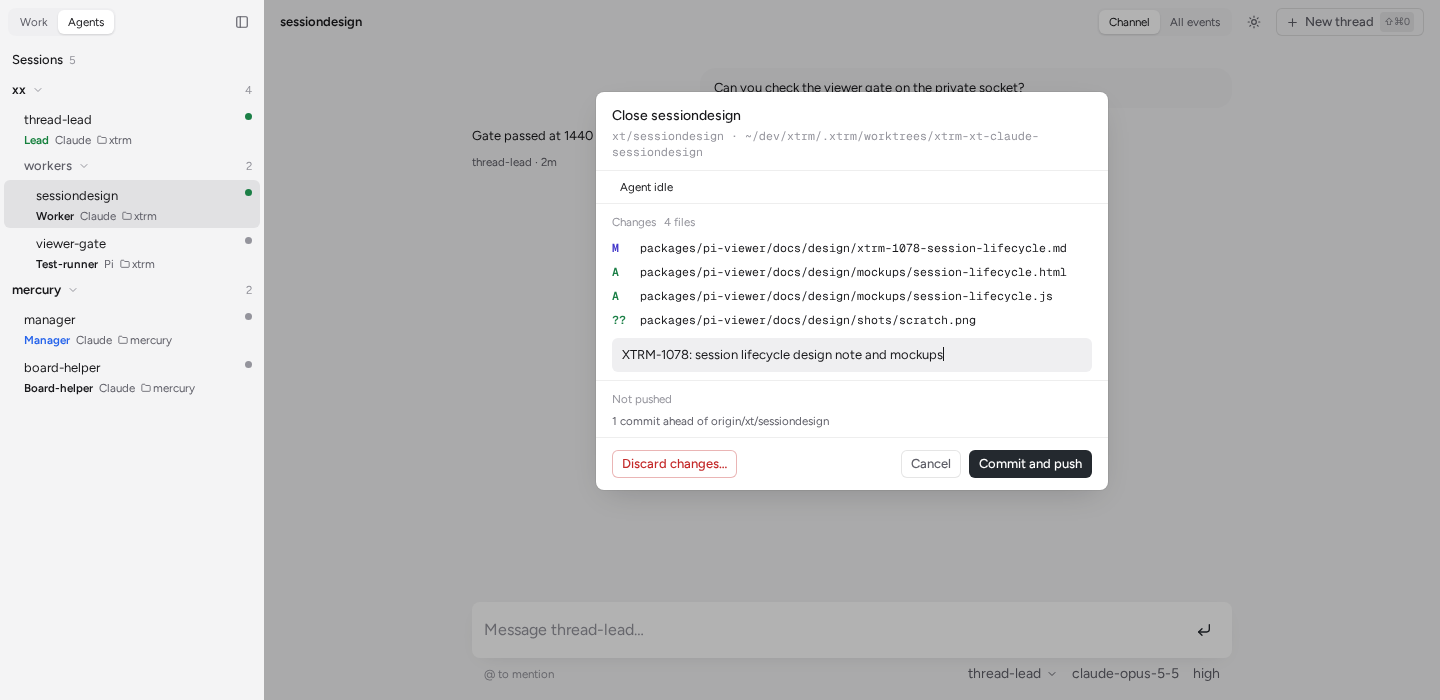
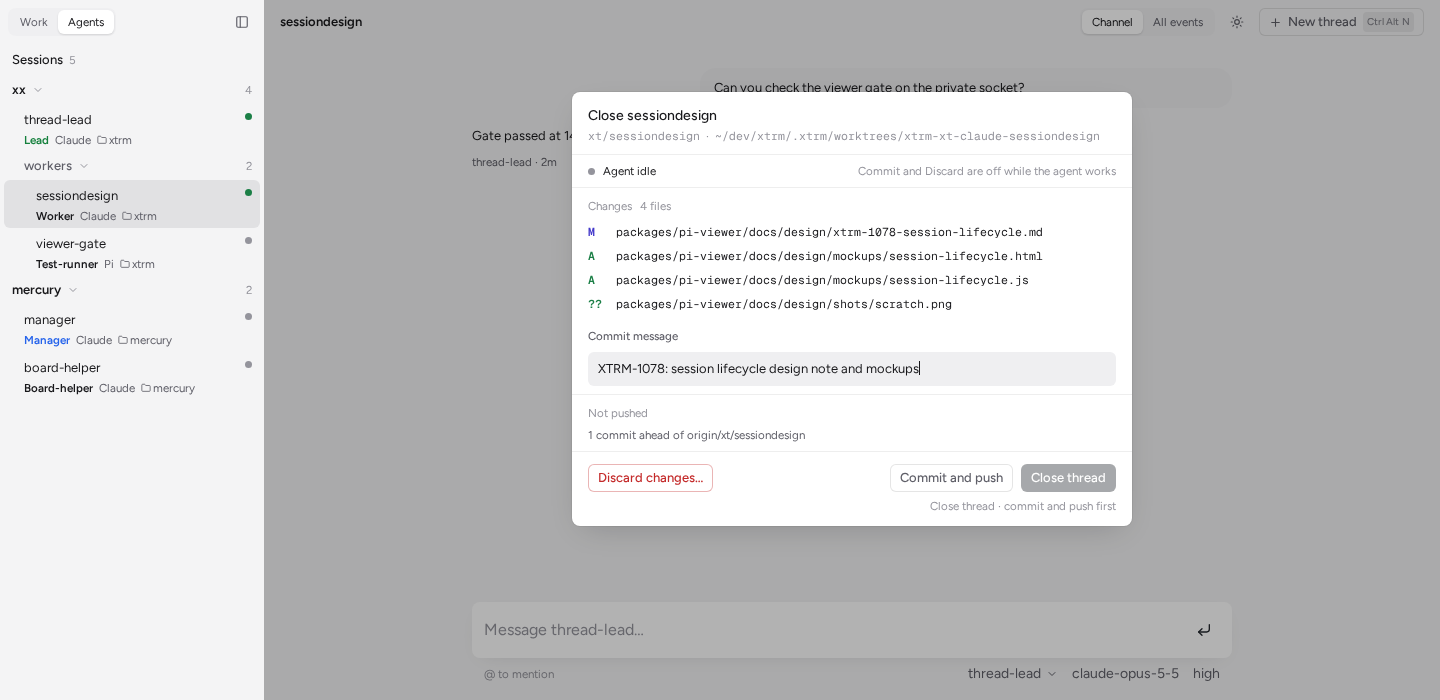
docs(pi-viewer): XTRM-1078 design round 2: lead review of #527
- Note: rulings in §9; private-socket test in §3.4 (XTRM_SESSION_SOCKET works,
  a fake TMUX corrupts identity; --json ignores --pane and refuses --window;
  failed placements leave orphan panes); C2 restated as client-less placement,
  C3 as --confirmed-by, C4 orphan and identity-leak bug; CORE-2825 cited;
  Ctrl+Alt+N with the browser check.
- Mockups: draft as one centred block, Command disclosure on its own line,
  "Add pane to" wording, static dashed draft dot (spinner only while
  starting), close dialog with a disabled Close thread and its reason,
  a labelled commit field, a left-truncated path, the Agent idle dot.

Changed region(s): [[0.375, 0.12, 0.8125, 0.75], [0.75, 0.03, 0.8438, 0.06], [0.9062, 0.03, 0.9688, 0.06]]

diff --git a/packages/pi-viewer/docs/design/mockups/session-lifecycle.js b/packages/pi-viewer/docs/design/mockups/session-lifecycle.js
@@ -41,8 +41,8 @@ function pane(p, ind, cls = "") {
 }
 const group = (name, n, ind, session, cls = "") =>
   `<div class="row g ${cls}" style="padding-left:${8 + ind * 12}px"><span class="tsm ${session ? "b ink" : "m muted"}">${name}</span><span class="chev">${i("down", 12)}</span><span class="cnt">${n}</span></div>`
-const draftRow = (ind, label) =>
-  `<div class="row p draft" style="padding-left:${8 + ind * 12}px"><div style="min-width:0;flex:1"><div class="tsm muted">${label}</div><div class="l2"><span>Draft</span></div></div><span class="dot draft"></span></div>`
+const draftRow = (ind, label, starting) =>
+  `<div class="row p draft" style="padding-left:${8 + ind * 12}px"><div style="min-width:0;flex:1"><div class="tsm muted">${label}</div><div class="l2"><span>${starting ? "Starting…" : "Draft"}</span></div></div>${starting ? '<span class="spin sm"></span>' : '<svg class="ddot" width="9" height="9" viewBox="0 0 9 9"><circle cx="4.5" cy="4.5" r="3.5" fill="none" stroke="currentColor" stroke-width="1.4" stroke-dasharray="2.2 2.2"/></svg>'}</div>`
 
 function sidebar(o = {}) {
   const c = o.ctx || ""
@@ -52,17 +52,17 @@ function sidebar(o = {}) {
     <span class="ib plus ${o.plus ? "on" : ""}" style="${o.plus ? "" : "opacity:.0"}">${i("plus")}</span></div>
   <div class="tree">
     ${group("xx", 4, 0, true, c === "sess" ? "ctx" : "")}
-    ${o.draft === "sess" ? draftRow(1, "New window") : ""}
+    ${o.draft === "sess" ? draftRow(1, "New window", o.starting) : ""}
     ${pane(PANES.lead, 1, o.sel === "lead" ? "sel" : "")}
     ${o.moved ? "" : group("workers", 2, 1, false, c === "win" ? "ctx" : "")}
     ${pane(PANES.w1, o.moved ? 1 : 2, (o.sel === "w1" ? "sel " : "") + (c === "w1" ? "ctx" : "") + (o.flash === "w1" ? " flash" : ""))}
     ${o.moved ? "" : pane(PANES.w2, 2, c === "w2" ? "ctx" : "")}
-    ${o.draft === "win" ? draftRow(2, "New thread") : ""}
+    ${o.draft === "win" ? draftRow(2, "New thread", o.starting) : ""}
     ${o.moved ? pane(PANES.w2, 1, "flash") : ""}
     ${group("mercury", 2, 0, true)}
     ${pane(PANES.mgr, 1)}
     ${pane(PANES.w3, 1)}
-    ${o.draft === "new" ? group("new session", 0, 0, true) + draftRow(1, "New thread") : ""}
+    ${o.draft === "new" ? group("new session", 0, 0, true) + draftRow(1, "New thread", o.starting) : ""}
   </div></aside>`
 }
 
@@ -70,7 +70,7 @@ function sidebar(o = {}) {
 function topbar(title, o = {}) {
   return `<div class="top"><span class="tsm b">${title}</span>${o.detail ? `<span class="t2xs faint">${o.detail}</span>` : ""}
   <div class="r"><div class="seg"><span class="on">Channel</span><span>All events</span></div><span class="ib">${i("sun")}</span>
-  <span class="newbtn ${o.newOn ? "" : "ghost"}">${i("plus", 13)}New thread<span class="kbd">⇧⌘O</span></span></div></div>`
+  <span class="newbtn ${o.newOn ? "" : "ghost"}">${i("plus", 13)}New thread<span class="kbd">Ctrl Alt N</span></span></div></div>`
 }
 function threadBody() {
   return `<div class="thread"><div class="lane">
@@ -84,7 +84,7 @@ function messageComposer() {
 }
 
 const PLACE = {
-  pane: ["Split", "xx › workers"],
+  pane: ["Add pane to", "xx › workers"],
   window: ["New window in", "xx"],
   session: ["New session", ""],
 }
@@ -104,7 +104,7 @@ function draftComposer(o) {
   const locked = o.issuePrompt
   return {
     hero: `<div class="hero"><h2>New thread</h2><p>${sentence}</p></div>`,
-    composer: `<div class="composer"><div class="lane" style="position:relative">
+    composer: `<div class="composer draftc"><div class="lane" style="position:relative">
     ${o.pop || ""}
     <div class="where">
       <span class="pick set" data-k="place">${i(o.place === "pane" ? "split" : o.place === "window" ? "window" : "session", 13)}${pk}${pv ? ` <span class="m">${pv}</span>` : ""} ${i("down", 12)}</span>
@@ -114,12 +114,15 @@ function draftComposer(o) {
     <div class="box"><div class="ta ${o.text ? "" : locked ? "locked" : "ph"}">${o.text || (locked ? "The issue is the prompt: XTRM-1078 renders as the first turn." : "Describe the task, or leave it empty to start idle")}</div>
       <span class="send">${o.busy ? '<span class="spin"></span>' : i("enter", 16)}</span></div>
     <div class="who">
-      <span class="prev mono" title="click copies">${i("terminal", 11)}${argv}</span>
       <span class="pick ${set("rt")}">${o.rt || "Claude"} ${i("down", 12)}</span>
       <span class="pick ${set("role")}">${o.role || "worker"} ${i("down", 12)}</span>
       <span class="pick ${set("model")}">${o.model || '<span class="faint">claude-opus-5-5</span>'} ${i("down", 12)}</span>
       <span class="pick ${set("issue")}">${o.issue === false ? '<span class="faint">No issue</span>' : "XTRM-1078"} ${i("down", 12)}</span>
-    </div></div></div>`,
+    </div>
+    ${o.cmdOpen
+      ? `<div class="cmd open"><span class="cmdh">${i("down", 11)}Command<span class="copy">${i("copy", 11)}Copy</span></span><code class="mono">${argv}</code></div>`
+      : `<div class="cmd"><span class="cmdh">${i("right", 11)}Command</span></div>`}
+    </div></div>`,
   }
 }
 
@@ -129,10 +132,10 @@ function desktop({ side, title, detail, body, composer, overlay = "", newOn }) {
 function draftFrame(o) {
   const d = draftComposer(o)
   return desktop({
-    side: sidebar({ draft: o.place === "pane" ? "win" : o.place === "window" ? "sess" : "new", ctx: o.ctx }),
+    side: sidebar({ draft: o.place === "pane" ? "win" : o.place === "window" ? "sess" : "new", ctx: o.ctx, starting: o.starting }),
     title: "New thread", detail: o.place === "pane" ? "draft · xx › workers" : o.place === "window" ? "draft · xx" : "draft",
-    body: `<div class="thread"><div class="lane">${d.hero}${o.card || ""}</div></div>`,
-    composer: d.composer, overlay: o.overlay, newOn: o.newOn,
+    body: `<div class="draftwrap"><div class="lane">${d.hero}</div>${d.composer}<div class="lane">${o.card || ""}</div></div>`,
+    composer: "", overlay: o.overlay, newOn: o.newOn,
   })
 }
 
@@ -142,7 +145,7 @@ const mi = (label, o = {}) =>
 const sep = '<div class="sep"></div>'
 
 const MENU_PANE = (top, left, hiMove) => `<div class="pop" style="top:${top}px;left:${left}px;min-width:224px">
-  ${mi("New thread beside", { icon: "split", det: "split workers" })}
+  ${mi("New thread beside", { icon: "split", det: "in workers" })}
   ${mi("Move to", { icon: "move", sub: true, hi: hiMove })}
   ${sep}${mi("Copy", { icon: "copy", sub: true })}
   ${sep}${mi("Close thread…", { icon: "trash", dng: true })}</div>`
@@ -183,12 +186,12 @@ F["F2"] = {
 }
 F["F3"] = {
   t: "Draft thread from a window row (entry a): placement picker open", why: "One component. Only the prefilled placement differs. Windows without agents are listed too. The command preview shows the exact argv.",
-  html: () => draftFrame({ place: "pane", ctx: "", set: ["place"],
-    pop: `<div class="pop" style="bottom:122px;left:0;width:300px;max-height:330px;overflow:hidden">
+  html: () => draftFrame({ place: "pane", ctx: "", set: ["place"], cmdOpen: true,
+    pop: `<div class="pop" style="top:28px;left:0;width:300px;max-height:330px;overflow:hidden">
       <div class="search">${i("search", 13)}<span>Filter sessions and windows</span></div>
       ${mi("New session", { icon: "session" })}
-      <div class="grp">xx</div>${mi("New window in xx", { icon: "plus" })}${mi("Split thread-lead window", { icon: "split" })}${mi("Split workers", { icon: "split", det: "2 panes", ck: true, hi: true })}${mi("Split scratch", { icon: "split", det: "no agent" })}
-      <div class="grp">mercury</div>${mi("New window in mercury", { icon: "plus" })}${mi("Split manager", { icon: "split" })}</div>` }),
+      <div class="grp">xx</div>${mi("New window in xx", { icon: "plus" })}${mi("Add pane to thread-lead window", { icon: "split" })}${mi("Add pane to workers", { icon: "split", det: "2 panes", ck: true, hi: true })}${mi("Add pane to scratch", { icon: "split", det: "no agent" })}
+      <div class="grp">mercury</div>${mi("New window in mercury", { icon: "plus" })}${mi("Add pane to manager", { icon: "split" })}</div>` }),
 }
 F["F4"] = {
   t: "Role picker: grouped, searchable, description on line 2", why: "From specialists list --json (36 roles). The model picker's placeholder follows the role's default model.",
@@ -206,31 +209,32 @@ F["F4"] = {
 }
 F["F5"] = {
   t: "Launch running (entry d, top-bar button)", why: "The fields lock and the send button spins. A launch card with elapsed time; the sidebar shows the draft row at its target.",
-  html: () => draftFrame({ place: "session", newOn: true, busy: true, set: ["place", "wt"], issue: false, text: "Audit the jira-cleanup skill against the current board",
+  html: () => draftFrame({ place: "session", newOn: true, busy: true, starting: true, set: ["place", "wt"], issue: false, text: "Audit the jira-cleanup skill against the current board",
     argv: "xt claude --role worker --new-session --prompt '…' --no-attach --json",
     card: `<div class="card"><div class="t">${'<span class="spin"></span>'}<span class="shimmer">Starting claude in a new worktree…</span><span class="txs faint" style="margin-left:auto">4 s</span></div>
       <div class="st"><span>Fetching origin/main, creating xt/&lt;name&gt;, starting the pane</span></div></div>` }),
 }
 F["F6"] = {
-  t: "Launch failed: inputs kept, reason shown, Retry", why: "The card shows reason_code and the summary from xtrm.command-outcome.v1. Nothing typed is lost.",
-  html: () => draftFrame({ place: "pane", rt: "Codex", set: ["place", "rt"], text: "Port the board-helper lanes to the new schema",
+  t: "Launch failed card: inputs kept, reason shown, Retry", why: "The card shows reason_code and the summary from xtrm.command-outcome.v1. Nothing typed is lost.",
+  html: () => draftFrame({ place: "pane", rt: "Codex", cmdOpen: true, set: ["place", "rt"], text: "Port the board-helper lanes to the new schema",
     argv: "xt codex --pane xx:workers --no-attach --json",
     card: `<div class="card err"><div class="t"><span class="danger">${i("alert", 14)}</span><span>Could not start codex</span><span class="mono txs faint" style="margin-left:auto">placement_unsupported</span></div>
       <div class="st"><span class="ink">xt codex has no --pane option; it can open a new session or a new window.</span></div>
       <div class="act"><span class="btn">Retry as new window</span><span class="btn">${i("copy", 12)}Copy command</span></div></div>` }),
 }
 const closeDialog = (o) => `<div class="backdrop"></div><div class="dialog">
-  <div class="dh"><div class="tt">Close sessiondesign</div><div class="mono txs faint" style="margin-top:2px">xt/sessiondesign · ~/dev/xtrm/.xtrm/worktrees/xtrm-xt-claude-sessiondesign</div></div>
-  <div class="sec" style="display:flex;gap:8px;align-items:center"><span class="dot idle" style="margin:0"></span><span class="txs">Agent idle</span></div>
+  <div class="dh"><div class="tt">Close sessiondesign</div><div class="pathline txs faint" title="~/dev/xtrm/.xtrm/worktrees/xtrm-xt-claude-sessiondesign"><span class="mono">xt/sessiondesign</span><span>·</span><span class="ltrunc mono"><bdi>~/dev/xtrm/.xtrm/worktrees/xtrm-xt-claude-sessiondesign</bdi></span></div></div>
+  <div class="sec" style="display:flex;gap:8px;align-items:center"><span class="sdot idle"></span><span class="txs">Agent idle</span><span class="txs faint" style="margin-left:auto">Commit and Discard are off while the agent works</span></div>
   <div class="sec"><div class="st"><span>Changes</span><span>4 files</span></div>
     <div class="file"><span class="g M">M</span><span class="mono">packages/pi-viewer/docs/design/xtrm-1078-session-lifecycle.md</span></div>
     <div class="file"><span class="g A">A</span><span class="mono">packages/pi-viewer/docs/design/mockups/session-lifecycle.html</span></div>
     <div class="file"><span class="g A">A</span><span class="mono">packages/pi-viewer/docs/design/mockups/session-lifecycle.js</span></div>
     <div class="file"><span class="g U">??</span><span class="mono">packages/pi-viewer/docs/design/shots/scratch.png</span></div>
-    ${o.commit ? `<div class="field">XTRM-1078: session lifecycle design note and mockups<span class="caret"></span></div>` : ""}</div>
+    ${o.commit ? `<label class="flabel">Commit message</label><div class="field">XTRM-1078: session lifecycle design note and mockups<span class="caret"></span></div>` : ""}</div>
   <div class="sec"><div class="st"><span>Not pushed</span></div><div class="txs muted">1 commit ahead of origin/xt/sessiondesign</div></div>
   <div class="ft"><span class="btn dghost">Discard changes…</span><span class="sp"></span>
-    ${o.commit ? `<span class="btn">Cancel</span><span class="btn pri">Commit and push</span>` : `<span class="btn">Commit and push</span><span class="btn pri dis" title="clean and pushed first">Close thread</span>`}</div></div>`
+    <span class="btn">Commit and push</span><span class="btn pri dis" title="Commit and push first">Close thread</span></div>
+  <div class="why2 txs faint">Close thread · commit and push first</div></div>`
 F["F7"] = {
   t: "Close dialog: git state, Commit and push", why: "Read with git status (never release --dry-run, which nudges the agent). Close is enabled only when the tree is clean and pushed.",
   html: () => desktop({ side: sidebar({ ctx: "w1" }), title: "sessiondesign", body: threadBody(), composer: messageComposer(), overlay: closeDialog({ commit: true }) }),
@@ -263,7 +267,7 @@ M["M1"] = {
 }
 M["M2"] = {
   t: "Phone: draft thread", why: "The pickers wrap; the command preview is hidden on phone.",
-  html: () => { const d = draftComposer({ place: "pane", set: ["place"] }); return mobile({ title: "New thread", body: `<div class="thread">${d.hero}</div>`, composer: d.composer }) },
+  html: () => { const d = draftComposer({ place: "pane", set: ["place"] }); return mobile({ title: "New thread", body: `<div class="draftwrap"><div class="lane" style="padding:0 12px">${d.hero}</div>${d.composer}</div>`, composer: "" }) },
 }
 M["M3"] = {
   t: "Phone: close dialog", why: "Full-width dialog, same content as F7.",

diff --git a/packages/pi-viewer/docs/design/mockups/session-lifecycle.css b/packages/pi-viewer/docs/design/mockups/session-lifecycle.css
@@ -188,3 +188,29 @@ body { margin: 0; background: var(--x-gallery); color: var(--x-ink); font: 400 0
 .frame.mobile .hero { padding-top: 64px; }
 .frame.mobile .dialog { left: 8px; right: 8px; transform: none; width: auto; top: 56px; }
 svg { display: block; }
+
+/* round 2 (lead review of #527) */
+.draftwrap { flex: 1; display: flex; flex-direction: column; justify-content: center; padding: 0 0 24px; min-height: 0; }
+.draftwrap .hero { padding: 0 12px 18px; }
+.composer.draftc { padding: 0 48px; }
+.frame.mobile .composer.draftc { padding: 0 12px; }
+.frame.mobile .draftwrap .hero { padding: 0 0 14px; }
+.draftwrap > .lane { padding: 0 48px; max-width: calc(760px + 96px); }
+.frame.mobile .draftwrap > .lane { padding: 0 12px; }
+.cmd { margin: 8px 12px 0; font-size: 0.72rem; color: var(--x-ink-faint); }
+.cmd .cmdh { display: inline-flex; align-items: center; gap: 4px; }
+.cmd.open { background: var(--x-surface); box-shadow: 0 0 0 1px var(--x-border-muted); border-radius: 6px; padding: 6px 10px 8px; }
+.cmd.open .cmdh { display: flex; width: 100%; }
+.cmd .copy { margin-left: auto; display: inline-flex; gap: 4px; align-items: center; color: var(--x-ink-muted); }
+.cmd code { display: block; margin-top: 4px; color: var(--x-ink-muted); white-space: pre-wrap; word-break: break-word; }
+.ddot { margin-left: auto; margin-top: 3px; color: var(--x-ink-faint); flex: none; }
+.spin.sm { width: 10px; height: 10px; border-width: 1.5px; margin-left: auto; margin-top: 3px; flex: none; }
+.sdot { width: 7px; height: 7px; border-radius: 99px; flex: none; }
+.sdot.idle { background: var(--x-ink-faint); } .sdot.run { background: var(--x-success); }
+.pathline { display: flex; gap: 6px; margin-top: 2px; min-width: 0; white-space: nowrap; }
+.ltrunc { min-width: 0; overflow: hidden; text-overflow: ellipsis; direction: rtl; text-align: left; }
+.flabel { display: block; margin-top: 10px; font-size: 0.72rem; color: var(--x-ink-muted); font-weight: 500; }
+.why2 { margin-left: 4px; }
+.kbd { font-family: "Figtree", system-ui, sans-serif; letter-spacing: 0.02em; }
+.dialog { width: 560px; }
+.why2 { margin: -6px 0 0; padding: 0 16px 12px; text-align: right; }

diff --git a/packages/pi-viewer/docs/design/xtrm-1078-session-lifecycle.md b/packages/pi-viewer/docs/design/xtrm-1078-session-lifecycle.md
@@ -1,6 +1,6 @@
 # Start, close and move agent sessions from the threads app (XTRM-1078)
 
-Status: phase-1 draft 1, for the thread lead and then the operator. No application code changes in this phase.
+Status: phase-1 draft 2 (thread-lead review round 1 of #527 applied: rulings in §9, design fixes a-g, the socket test in §3.4). For the operator after the lead. No application code changes in this phase.
 Contract: Substrate `XTRM-1078` rev 2; journal seq 2-5 (operator note, lead inventory, the native-tmux correction, the operator direction).
 Mockups: [`mockups/session-lifecycle.html`](mockups/session-lifecycle.html) (desktop 1440, `?w=390` for phone, `?theme=light|dark`). Screenshots: [`shots/XTRM-1078/`](shots/XTRM-1078/) (`xtrm-1078-<frame>-<theme>.png`, frames F1-F9 at 1440 and M1-M3 at 390).
 Reference studied: `pingdotgg/t3code` at `17a44b5e5fb9548571a0e3016ec51f5d74b884c8` (2026-11-28), shallow clone, source read only. `T3/` means `apps/web/src/`.
@@ -10,10 +10,10 @@ Every statement is marked when it matters: **verified** (read in source or obser
 ## 1. Summary
 
 1. Starting a thread is a **draft thread** in the main pane, not a form or a modal. It uses the composer the operator already knows: the prompt box, with the pickers placed around it the same way as the existing target, model and effort under-row. The four entry points open the same draft. They differ only in the placement prefilled into the placement picker.
-2. The composer shows **where** above the box (placement, repo, worktree) and **who** under it (runtime, role, model, issue). A one-line **command preview** shows the exact `xt` argv that Enter will run. That preview is how "every action is visible" is met before the action runs.
+2. The composer shows **where** above the box (placement, repo, worktree) and **who** under it (runtime, role, model, issue). A quiet **Command** disclosure under the who-row expands to the exact, full `xt` argv that Enter will run, with Copy. It never shows a truncated argv. That preview is how "every action is visible" is met before the action runs.
 3. **Close** is a dialog on the pane row. It shows the worktree's git state and has three actions: Commit and push, Discard (behind its own confirmation, which lists the files), and Close, which is enabled only when the tree is clean and pushed. Close ends the agent's pane and runs `xt worktree release --pane`.
 4. **Move** is a submenu on the pane and window rows. It uses native `tmux join-pane`, `break-pane` and `move-window`, all with `-S`. Moves are reversible, so they get an **Undo** toast and no confirmation, as t3code does for archive.
-5. Phase 2 needs four viewer host endpoints (`/api/launch`, `/api/worktree-status`, `/api/worktree-action`, `/api/move`) and one audit log. It needs **two small core-cli changes** that the contract allows only when an existing flag cannot express the need. §4 states each gap with evidence.
+5. Phase 2 needs four viewer host endpoints (`/api/launch`, `/api/worktree-status`, `/api/worktree-action`, `/api/move`) and one audit log. It needs **core-cli changes** that the contract allows only when an existing flag cannot express the need. The private-socket test in §3.4 found more gaps than draft 1 expected: the `--json` launch path ignores `--pane`, refuses `--window`, and a failed placement leaves orphan panes. §4 states each gap with evidence.
 
 ## 2. What t3code does, and what we take
 
@@ -27,7 +27,7 @@ Findings from the read of t3code. Each one names the file it came from.
 | New thread opens a **draft** at once. An empty draft per project is reused. It is promoted to a thread on first send, and a failed send restores the draft. | `T3/hooks/useHandleNewThread.ts:233-300`, `composerDraftStore.ts:4849`, `useComposerSend.ts:306-311` | One draft per placement key. Enter launches it. On failure the draft keeps every field and the prompt text. |
 | The draft hero heading carries a searchable project combobox: "What should we build in {project}?" | `T3/components/chat/DraftHeroHeadline.tsx:142-372` | The heading names the placement in plain words: "New thread in **xx › workers**". The repo is a picker, not part of the heading, because one tmux window holds several repos. |
 | Workspace: "Current checkout", "New worktree", "Previous worktree" (with its branch). It is locked after the first send. | `T3/components/BranchToolbarEnvModeSelector.tsx` | A worktree picker: **New worktree** (default, from `origin/<default>`), **New worktree from…** (`--base`), **Existing worktree** (`xt attach <slug> --fresh`). |
-| Shortcuts: `mod+n` / `mod+shift+o` new thread, `mod+k` palette, `mod+shift+m` model picker, and one per composer picker, each shown in its tooltip. | `packages/shared/src/keybindings.ts:116-128` | `mod+shift+o` for new thread (`mod+n` belongs to the browser). Pickers get `mod+shift+<letter>` shown in their tooltips. There is no command palette in phase 2 (§3.6). |
+| Shortcuts: `mod+n` / `mod+shift+o` new thread, `mod+k` palette, `mod+shift+m` model picker, and one per composer picker, each shown in its tooltip. | `packages/shared/src/keybindings.ts:116-128` | `Ctrl+Alt+N` / `⌃⌥N` for new thread (§5.1 states the browser check; `mod+n` and `mod+shift+o` belong to the browser). Pickers show their shortcut in their tooltips. There is no command palette in phase 2 (§3.6). |
 | Model picker: searchable combobox, check on the selected row, jump keys, `max-h` frozen while searching so it does not jump. | `T3/components/chat/ModelPickerContent.tsx:955-1060`, `ModelListRow.tsx` | Our pickers are searchable lists with a check, grouped, with height frozen while filtering. One column, no provider rail: runtime is its own picker. |
 | Chips are emphasized only when they differ from the default. | `T3/components/chat/ComposerControlsBar.tsx:135-180` | A picker reads muted at its default value and turns `--x-ink` when changed, so the operator sees at a glance what they set. |
 | Worktree setup shows an inline card in the timeline with stages ("Setting up worktree…", "Worktree ready", "Worktree setup failed") and ghost actions. | `T3/components/chat/WorktreeSetupCard.tsx:113-125,340-405` | A **launch card** in the draft timeline: Starting… with elapsed time, then the outcome. On failure it shows `reason_code` and summary, Retry and Copy command. |
@@ -53,23 +53,41 @@ The XTRM-557.9 / XTRM-601 launch path takes `command: "pi" | "xt pi"` only, with
 ### 3.3 `xt codex` cannot be placed (verified)
 
 `xt codex --help` offers `--window` but no `--pane`, `--session`, `--layout`, `--workers` or `--new-session`; `xt pi` and `xt claude` have all of them. Codex can therefore start only as a new session or as a window in the caller's session.
-**Proposal:** this is the case the contract allows for core cli: give `xt codex` the same placement flags as `xt pi` (core issue, owner 9hym). Until it lands, the runtime picker disables Codex for a pane placement, with the reason "Codex cannot split a window yet".
+**Proposal:** this is the case the contract allows for core cli: give `xt codex` the same placement flags as `xt pi` (core issue, owner 9hym). Until it lands, the runtime picker disables Codex for a pane placement, with the reason "Codex cannot add a pane to a window yet".
 
-### 3.4 `xt` cannot target a tmux socket (verified)
+### 3.4 Socket and placement: the private-socket test (verified, 2026-11-28)
 
-No `xt` runtime has `-S` or `-L`. `xt` chooses its server from `$TMUX` or the default socket, and inside `$TMUX` without a placement flag it runs **in the current pane** (`xt claude --help`, `--new-session`). The constraint "host tmux calls target the host's own server explicitly (-S)" can be met for the viewer's own tmux calls, but not for `xt` itself. Today the viewer's tmux calls carry no `-S` either (`server/api.ts:619-620,649`, `server/discover.ts:91`).
-**Proposal:** (1) The viewer resolves its socket once at start: `PI_VIEWER_TMUX_SOCKET`, else the default `$TMUX_TMPDIR/tmux-$UID/default`, never an inherited `$TMUX`. It passes `-S` on every call it makes. (2) `xt` gets a documented `XTMUX_SOCKET` env var, or a `--socket` flag (core issue), that its launcher honours. The viewer sets it and **always** passes an explicit placement flag, so `xt` never falls back to "run in the current pane". (3) Tests use a private socket only. **Lead decision needed:** env var or flag.
+Ruling to test: does `xt` honour a child `TMUX="<sock>,<pid>,0"` with an explicit placement flag? Method: `unset TMUX TMUX_PANE; export TMUX_TMPDIR=$(mktemp -d)`, a private server on `-S $TMUX_TMPDIR/<x>.sock` holding one `sleep` pane in session `probe`, a scratch git repo with a local bare `origin`, then `xt pi --no-attach ...`. After every run, the default server still had its 5 windows, and each private server was stopped with `tmux -S <sock> kill-server`.
+
+| Child env | Placement | Result |
+|---|---|---|
+| `TMUX=<sock>,<pid>,0` | `--new-session --json` | ok: a session on the private server. `@agent_parent_session` is set from the fake `TMUX` (`$0`, then `$1`) and is wrong for a UI launch |
+| `TMUX=<sock>,<pid>,0` | `--pane probe:base` / `--workers --session probe` | `✗ tmux placement failed: no current client`. The pane is **still created** and left running, without `@agent_worktree`/`@agent_branch`. The worktree and branch remain |
+| `XTRM_SESSION_SOCKET=<sock>`, `env -i` | `--new-session --json` | ok: on the private server, `@agent_parent_session ''`. `xt` already honours this variable |
+| `XTRM_SESSION_SOCKET=<sock>`, `env -i` | `--pane probe:base --json` | **`status: ok`, but the pane is in a new session `pi-2l0q`, not in `probe:base`**: the JSON path ignores `--pane` |
+| `XTRM_SESSION_SOCKET=<sock>`, `env -i` | `--workers --session probe --json` | `no current client`, orphan pane left |
+| any | `--window --session probe [--window-name w2]` with `--json` | `✗ --window cannot combine with --json` |
+| `XTRM_SESSION_SOCKET=<sock>`, `env -i` | `--window --session probe --window-name w2` (no `--json`) | worktree created, then `no current client`, orphan window left |
+
+Also observed: launched from this agent's pane, the child inherited `XTMUX_AGENT_ISSUE`, `XTMUX_AGENT_ROLE` and others, and the new panes carried `@agent_issue XTRM-1078`, `@agent_role worker` and `@agent_dispatcher sessiondesign`. With `env -i`, `@agent_dispatcher sessiondesign` still appeared, so `xt` reads the dispatcher from a source other than the child env (**inferred**: an ancestor process). No claim or journal entry was written on XTRM-1078 (checked with `sb issue show` and `sb journal show`).
+
+**Conclusions.**
+1. The socket is solved without a fake `TMUX`. The viewer runs `xt` with `XTRM_SESSION_SOCKET=<its socket>` and **no** `TMUX`. A fake `TMUX` corrupts `@agent_parent_session`. The variable the lead proposed (`XTMUX_SOCKET`) is not needed; C2 as a socket change is dropped.
+2. Placement is the real gap. Only `--new-session` works from a process with no tmux client. With `--json`, `--pane` is silently ignored (a wrong placement reported as `ok`) and `--window` is refused. C2 becomes "placement without a client, under `--json`" (§4).
+3. A failed placement leaves a running orphan pane, a worktree and a branch (C4, a core bug).
+4. The viewer builds the child env from an allowlist (`HOME`, `PATH`, `USER`, `LANG`, `TMUX_TMPDIR`, `XTRM_SESSION_SOCKET`) and passes identity only as flags. Inheriting the env of the shell that started the viewer would stamp every launch with that shell's issue and role. The dispatcher leak is reported to core with C4.
+5. The viewer's own tmux calls take `-S <socket>` everywhere. Today they carry none (`server/api.ts:619-620,649`, `server/discover.ts:91`); P1 fixes that.
 
 ### 3.5 Close and the release command (partly verified, partly open)
 
-- **Dry-run side effect (verified).** `xt worktree release --pane %16 --dry-run`, run in this session, returned `action: nudged` and **typed the nudge into the agent's pane**. The UI must not use release to read state. **Proposal:** the viewer reads git state itself with `git -C <@agent_worktree> status --porcelain=v2 --branch` plus `git log @{u}..` (read-only).
-- **Own agent exempt (inferred).** The blockers were two pids, the shell running my own probe. The pane's agent process (`claude`, cwd inside the tree) was not listed. Release therefore appears to exempt the pane's own agent, so a host process outside the tree can release an idle, clean, pushed tree. Phase 2 verifies this on a private socket.
-- **Confirmation path (open).** Release asks its confirmation on a tmux client (`--client`). From the host there is no client. **Question for 9hym:** does release without `--client` proceed, refuse, or wait? The UI already confirms; the host needs a non-interactive path. If one is missing, that is the second justified core change.
+- **Dry-run side effect (verified).** `xt worktree release --pane %16 --dry-run`, run in this session, returned `action: nudged` and **typed the nudge into the agent's pane**. The lead read the source: the nudge branch runs before the `dryRun` check. The lead filed this as **CORE-2825**. The UI never uses release to read state. The viewer reads git state itself with `git -C <@agent_worktree> status --porcelain=v2 --branch` plus `git log @{u}..` (read-only).
+- **Own agent exempt (inferred).** The blockers in that run were two pids, the shell running my own probe. The pane's agent process (`claude`, cwd inside the tree) was not listed. Release therefore appears to exempt the pane's own agent. Phase 2 verifies this on a private socket.
+- **Confirmation path (verified by the lead in core `cli/src/core/worktree-release-pane.ts`).** Without `--client`, release returns `action: 'checked'` with "needs confirmation: press prefix+X ... (or pass --client)" and removes nothing. It also refuses when `process.env.TMUX` is unset. The host has no client and, by §3.4, no `TMUX`. **C3 is needed:** a host-confirmed, non-interactive path, `--confirmed-by <actor>`, that names who confirmed (the viewer passes `pi-viewer:<operator>`), writes that actor into release's log, and takes the server from `XTRM_SESSION_SOCKET`. It is not a bare `--yes`.
 - **Discard.** Per journal seq 4: Discard runs `git restore --staged --worktree -- <files>` and `git clean -f -- <untracked files>` on exactly the listed files. Release gets no force flag. Commits that are not pushed are not "discarded" by this. The dialog offers Push for them, and the branch is kept by release anyway.
 
 ### 3.6 Over-built or premature
 
-- **A command palette.** The viewer has none, and the console's `cmdk` palette is a separate surface. **Proposal:** phase 2 ships the shortcut `mod+shift+o` and the menus. A palette waits for the shared shell work (XTRM-1098).
+- **A command palette.** The viewer has none, and the console's `cmdk` palette is a separate surface. **Proposal:** phase 2 ships the shortcut `Ctrl+Alt+N` / `⌃⌥N` and the menus. A palette waits for the shared shell work (XTRM-1098).
 - **"Commit and push" while the agent works.** Committing under a working agent races its edits. **Proposal:** Commit and push and Discard are disabled while the pane's status is `working`, with that reason. The operator asks the agent to stop first. Stopping is the existing Esc control, and the close flow does not add an interrupt (non-goal).
 - **Role list as a flat dropdown.** `specialists list --json` returns 36 roles (verified), including `manager`, `board-helper` and `transcriber`. **Proposal:** a searchable list grouped by `category`, the description as line 2, and the role's default model shown as the model picker's placeholder, because `--model` overrides `specialist.execution.model`.
 
@@ -87,9 +105,13 @@ No `xt` runtime has `-S` or `-L`. `xt` chooses its server from `$TMUX` or the de
 
 | # | Change | Why no existing flag works | Evidence |
 |---|---|---|---|
-| C1 | `xt codex`: `--pane`, `--session`, `--layout`, `--workers`, `--new-session` with `xt pi` semantics | Codex has `--window` only, so "pane in window" and "window in session X" cannot be expressed | `xt codex --help` |
-| C2 | `xt` launcher: `XTMUX_SOCKET` env (or `--socket <path>`) | No socket option; the server comes from `$TMUX`, which the host must not inherit | `xt pi/claude/codex --help` |
-| C3 (conditional) | `xt worktree release --pane <id> --yes` (non-interactive, logged) | Only if release without `--client` cannot proceed (§3.5, open question) | `xt worktree release --help` |
+| C1 | `xt codex`: `--pane`, `--session`, `--layout`, `--workers`, `--new-session` with `xt pi` semantics | Codex has `--window` only | `xt codex --help` |
+| C2 | Launcher placement from a process with no tmux client: `--pane`, `--workers` and `--window [--window-name] --session` must work under `XTRM_SESSION_SOCKET` and with `--json`. An unsupported combination must fail, never report `ok` for a different placement | `--json` ignores `--pane` and refuses `--window`; without `--json`, placement fails with "no current client" | §3.4 table |
+| C3 | `xt worktree release --pane <id> --confirmed-by <actor>`, logged, server from `XTRM_SESSION_SOCKET` | Without `--client` release only checks; it refuses without `TMUX` | §3.5, core `worktree-release-pane.ts` |
+| C4 | Bug: a failed placement rolls back its pane, worktree and branch. Identity comes from flags, not from inherited `XTMUX_AGENT_*` env or ancestors | Orphan panes and worktrees after "no current client"; `@agent_issue`/`@agent_role`/`@agent_dispatcher` leaked | §3.4 |
+| — | CORE-2825: release `--dry-run` nudges (filed by the lead) | | §3.5 |
+
+Until C2 lands, phase 2 can ship entry point (c), New session, which works today (`--new-session --json` under `XTRM_SESSION_SOCKET`). Entry points a, a', b and d wait for C2, or the composer offers only New session with the reason "placement needs core C2".
 
 No new verb for move or close (non-goal, journal seq 4).
 
@@ -103,7 +125,9 @@ No new verb for move or close (non-goal, journal seq 4).
 | a' | Pane row (any) | same | New thread beside | Pane in that pane's window |
 | b | Session row | same | New thread in new window | New window in that session (`--window --session <s>`) |
 | c | Fixed "Sessions" header | same, plus a `+` icon button that appears on hover/focus | New session | New session (`--new-session`) |
-| d | Top bar, far right | `+ New thread` button; `mod+shift+o` anywhere | — | Default (§5.3) |
+| d | Top bar, far right | `+ New thread` button; `Ctrl+Alt+N` (Linux, Windows) / `⌃⌥N` (macOS) anywhere | — | Default (§5.3) |
+
+**Shortcut check.** Google's Chrome shortcut page (support.google.com/chrome/answer/157179, Windows & Linux and Mac tabs, read 2026-11-28) assigns `Ctrl+Shift+O` (Bookmarks Manager), `Shift+Alt+N` and `⌘+Option+N` (split view), and `Shift+Alt+T` and `Shift+Alt+I`. It does not list `Ctrl+Alt+N` or `⌃⌥N`. Firefox's shortcut page could not be read (a challenge page was served), so Firefox is **unverified**. The P2 browser gate presses the key in Chrome and Firefox and asserts the draft opens. One known risk: on Windows, `Ctrl+Alt` acts as AltGr in Polish and other layouts (`AltGr+N` types `ń`). The handler matches `event.code === "KeyN"` with `ctrlKey && altKey` and never fires inside a text field. The fallback is a single `N` outside editable fields. The hint renders as text ("Ctrl Alt N") in the sans face, so no glyph reads as a digit.
 
 Mobile has no right-click. A long press (500 ms) on a row opens the same menu as a bottom sheet. The top-bar button stays, as an icon only.
 
@@ -120,16 +144,19 @@ Disabled items stay visible with their reason, for example "Close thread… · a
 
 ### 5.3 The new-thread draft (one component)
 
-The main pane switches to a **draft** scope. The sidebar shows a draft row at the target placement with a dashed status dot. The draft has three parts, from top to bottom:
+The main pane switches to a **draft** scope. The sidebar shows a draft row at the target placement with a static dashed dot. The dot becomes a spinner only after Enter, while the launch runs (F5). The draft has three parts, from top to bottom:
 
 1. **Hero:** "New thread" (`text-base font-semibold`) and one plain sentence for the placement: "Adds a pane to **workers** in **xx**." The sentence updates as the pickers change.
-2. **Where row** (above the box, left-aligned, the same 13px muted step as the existing under-row): `Placement ▾` · `Repo ▾ path` · `Worktree ▾`.
+2. **Where row** (above the box, left-aligned, the same 13px muted step as the existing under-row): `Placement ▾` (for example "Add pane to xx › workers") · `Repo ▾ path` · `Worktree ▾`.
 3. **The composer box**, which is the existing `xtrm-composer-box` (same fill, shadow, 56px one-line height, 32px send button). The placeholder is "Describe the task, or leave empty to start idle". The send glyph is the same `CornerDownLeft`. Enter launches and Shift+Enter adds a newline.
-4. **Who row** (under the box, right-aligned like the current target/model/effort row): `Runtime ▾` · `Role ▾` · `Model ▾` · `Issue ▾`, then the left-aligned muted **command preview**: `xt claude --role worker --issue XTRM-1078 --pane xx:workers --no-attach --json`. Click copies it.
+4. **Who row** (under the box): `Runtime ▾` · `Role ▾` · `Model ▾` · `Issue ▾`.
+5. **Command** disclosure on its own full-width line under the who-row. It is closed by default and shows only the word "Command". Open, it shows the full argv, wrapped and never truncated, with Copy: `xt claude --role worker --issue XTRM-1078 --pane xx:workers --layout tiled --no-attach --json`.
+
+Hero, where-row, box, who-row and Command form **one block, centred vertically** in the main pane, as in t3code's draft. There is no void between the heading and the box at any width (F3, F4, M2). The launch card sits directly under the block.
 
 Pickers (all popovers that open upward from their trigger, like the current agent menu, `max-h-72`, searchable when they hold more than 8 rows):
 
-- **Placement:** a list of `New session` (optional session name), then each session with `New window` (optional window name), then its windows with `Split`. A check marks the selection. Windows without agents are listed too (§3.1).
+- **Placement:** a list of `New session` (optional session name), then each session with `New window in <s>` (optional window name), then its windows as `Add pane to <window>`. The UI never says "split". A check marks the selection. Windows without agents are listed too (§3.1).
 - **Repo:** recent repos first (distinct repo roots of live panes plus the last 5 launched, stored in localStorage `xtrm.viewer.launch.v1`), then "Other path…", an absolute-path input that the server validates as a directory in a git repo. Line 2 shows the path in mono.
 - **Worktree:** New worktree from `origin/<default>` (default) · New worktree from… (ref input, `--base`) · Existing worktree ▸ (unattached worktrees of this repo from `xt topology --json` `orphans.worktrees`, launched with `xt attach <slug> --fresh`).
 - **Runtime:** Claude · Pi · Codex, one line each, with a reason when disabled (§3.3).
@@ -152,10 +179,11 @@ Pickers (all popovers that open upward from their trigger, like the current agen
 Pane row ▸ **Close thread…** opens a console `DialogFrame` (`packages/xtrm-app/src/ui/dialog.tsx`, `rounded-lg bg-raised shadow-float`, width 32rem):
 
 - Header: "Close worker-a3" plus the branch and worktree path in mono.
-- **Agent:** status dot plus word. While `working`: "The agent is working. Stop it in the composer (Esc) before you close." Commit, Discard and Close are disabled.
+- **Agent:** status dot plus word ("Agent idle"). While `working`: "The agent is working. Stop it in the composer (Esc) before you close." Commit, Discard and Close are disabled.
 - **Changes:** one row per file from porcelain v2, with an `M / A / D / R / ??` glyph in diff colours, and counts in the section title.
 - **Not pushed:** n commits ahead of upstream, or "no upstream".
-- Actions, left to right: `Discard changes…` (danger ghost) · ── · `Commit and push` (opens an inline message field prefilled `XTRM-1078: <title>`, then runs `git add -A && git commit -m && git push -u origin <branch>` as separate argv calls; repo hooks run) · `Close thread` (primary, enabled only when clean and pushed).
+- The header shows the branch, then the worktree path in mono, truncated **from the left** on one line with the full path in a tooltip.
+- Actions, left to right: `Discard changes…` (danger ghost) · ── · `Commit and push` (opens a labelled "Commit message" field prefilled `XTRM-1078: <title>`, then runs `git add -A`, `git commit -m`, `git push -u origin <branch>` as separate argv calls; repo hooks run) · `Close thread` (primary). Close thread is always visible. While the tree is dirty or ahead it is disabled, and a line under the buttons gives the reason: "Close thread · commit and push first" (F7).
 - **Discard confirmation** (a second, AlertDialog-style frame): "Discard 4 changes in worker-a3?" It lists every file and says "This cannot be undone. Commits are kept." It has Cancel and a red `Discard 4 files`. There is no type-to-confirm. It is one explicit confirmation, as the contract asks.
 - **Close** runs, in order: (1) re-read git state (it must still be clean and pushed); (2) `xt worktree release --pane <id>` (§3.5); (3) when release removed the tree, `tmux -S <sock> kill-pane -t <id>` only if the pane still exists. The result is a toast plus an audit line. A release refusal shows its blockers in the dialog verbatim.
 
@@ -178,7 +206,7 @@ All endpoints are `POST`, pass `requireWrite` and `hostVerdict` (`server/guard.t
 
 | Route | Body | Runs | Returns |
 |---|---|---|---|
-| `/api/launch` | `{runtime, cwd, name?, prompt?, role?, issue?, model?, base?, attach?: slug, placement: {kind: "session"\|"window"\|"pane", session?, window?, windowName?, layout?}}` | `xt <runtime> [name] --no-attach --json …` or `xt attach <slug> --fresh …` | the `xtrm.command-outcome.v1` object plus `{session, paneId}` |
+| `/api/launch` | `{runtime, cwd, name?, prompt?, role?, issue?, model?, base?, attach?: slug, placement: {kind: "session"\|"window"\|"pane", session?, window?, windowName?, layout?}}` | `xt <runtime> [name] --no-attach --json …` or `xt attach <slug> --fresh …`, env from an allowlist plus `XTRM_SESSION_SOCKET`, no `TMUX` (§3.4) | the `xtrm.command-outcome.v1` object plus `{session, paneId}` |
 | `/api/worktree-status` (GET) | `?paneId=` | `git -C <@agent_worktree> status --porcelain=v2 --branch`, `git log --oneline @{u}..` | `{worktree, branch, files[], ahead, upstream, agentStatus}` |
 | `/api/worktree-action` | `{paneId, action: "commit-push"\|"discard"\|"release", message?, files?}` | commit plus push / restore plus clean on `files` (each must be in the last status) / `xt worktree release --pane` | outcome plus a fresh status |
 | `/api/move` | `{paneId?, windowTarget?, to: {kind, session, window?}}` | `join-pane` / `break-pane` / `move-window` | `{paneId, session, window}` plus the undo body |
@@ -195,18 +223,19 @@ All endpoints are `POST`, pass `requireWrite` and `hostVerdict` (`server/guard.t
 | PR | Content | Gate |
 |---|---|---|
 | P1 | Socket resolution and `-S` on all existing viewer tmux calls; `menus.ts` builder plus the Base UI context menu on all four row kinds (copy items only); Shift+F10 and long press | unit tests for the builder; browser gate: menus on each row kind, keyboard open |
-| P2 | `/api/topology`, `/api/launch`, the draft scope, pickers, command preview, launch card; entry points a, a', b, c, d; `mod+shift+o` | browser gate on a private socket: all four entry points start a pane at the right placement; `@agent_*` options match the identity doc after each |
+| P2 | `/api/topology`, `/api/launch` (child env from an allowlist, `XTRM_SESSION_SOCKET`, identity only as flags), the draft scope, pickers, Command disclosure, launch card; entry point c at once, a, a', b, d when C2 lands; `Ctrl+Alt+N` | browser gate on a private socket: every entry point starts a pane at the right placement; `@agent_*` options match the identity doc after each, with no inherited issue or role |
 | P3 | `/api/worktree-status`, `/api/worktree-action`, close dialog, discard confirmation | browser gate: dirty → commit and push → close; dirty → discard → close; working agent disables actions |
 | P4 | `/api/move`, Move submenus, Undo toast | browser gate: join, break, move-window and undo; options unchanged after each |
-| core | C1, C2 (and C3 if needed), owner 9hym | core CI |
+| core | C1, C2, C3, C4 (owner 9hym); CORE-2825 | core CI |
 
-P2 depends on C2 for the socket. Codex placement depends on C1, and P2 ships with Codex limited to new session and new window until C1 lands.
+The socket needs no core change (`XTRM_SESSION_SOCKET`, §3.4). Placements other than New session depend on C2, Codex placement on C1, and Close on C3.
 
-## 9. Decisions requested
+## 9. Rulings (thread lead, round 1, 2026-11-28) and open items
 
-1. Viewer-local `/api/launch` (recommended) or extend the agent-host launch first (§3.2).
-2. `XTMUX_SOCKET` env (recommended) or `--socket` flag (§3.4); open C1 and C2 as core issues.
-3. 9hym: how release behaves without `--client` (§3.5).
-4. Base UI in the viewer (recommended) or Radix ContextMenu with console classes (§5.2).
-5. Audit file location and the Substrate journal question (§7).
-6. Operator: the draft-thread model (§5.3) over a modal dialog, and Undo instead of confirm for moves (§5.5).
+1. Viewer-local `POST /api/launch`: **approved**.
+2. Socket: tested (§3.4). `XTRM_SESSION_SOCKET` already works; a fake `TMUX` corrupts identity. The placement gap is C2.
+3. C3 **needed**, as `--confirmed-by <actor>`. The dry-run nudge is CORE-2825.
+4. Base UI in the viewer: **approved**, on the condition that P1 measures the gzipped bundle delta and reports it in its PR.
+5. Audit at `~/.xtrm/state/pi-viewer/actions.jsonl`, no Substrate journal line on launch: **approved**.
+
+Open: the core issues for C1, C2, C3 and C4 (owner 9hym; the lead opens them). Operator: approval of the draft-thread model (§5.3) and of Undo instead of confirm for moves (§5.5).
